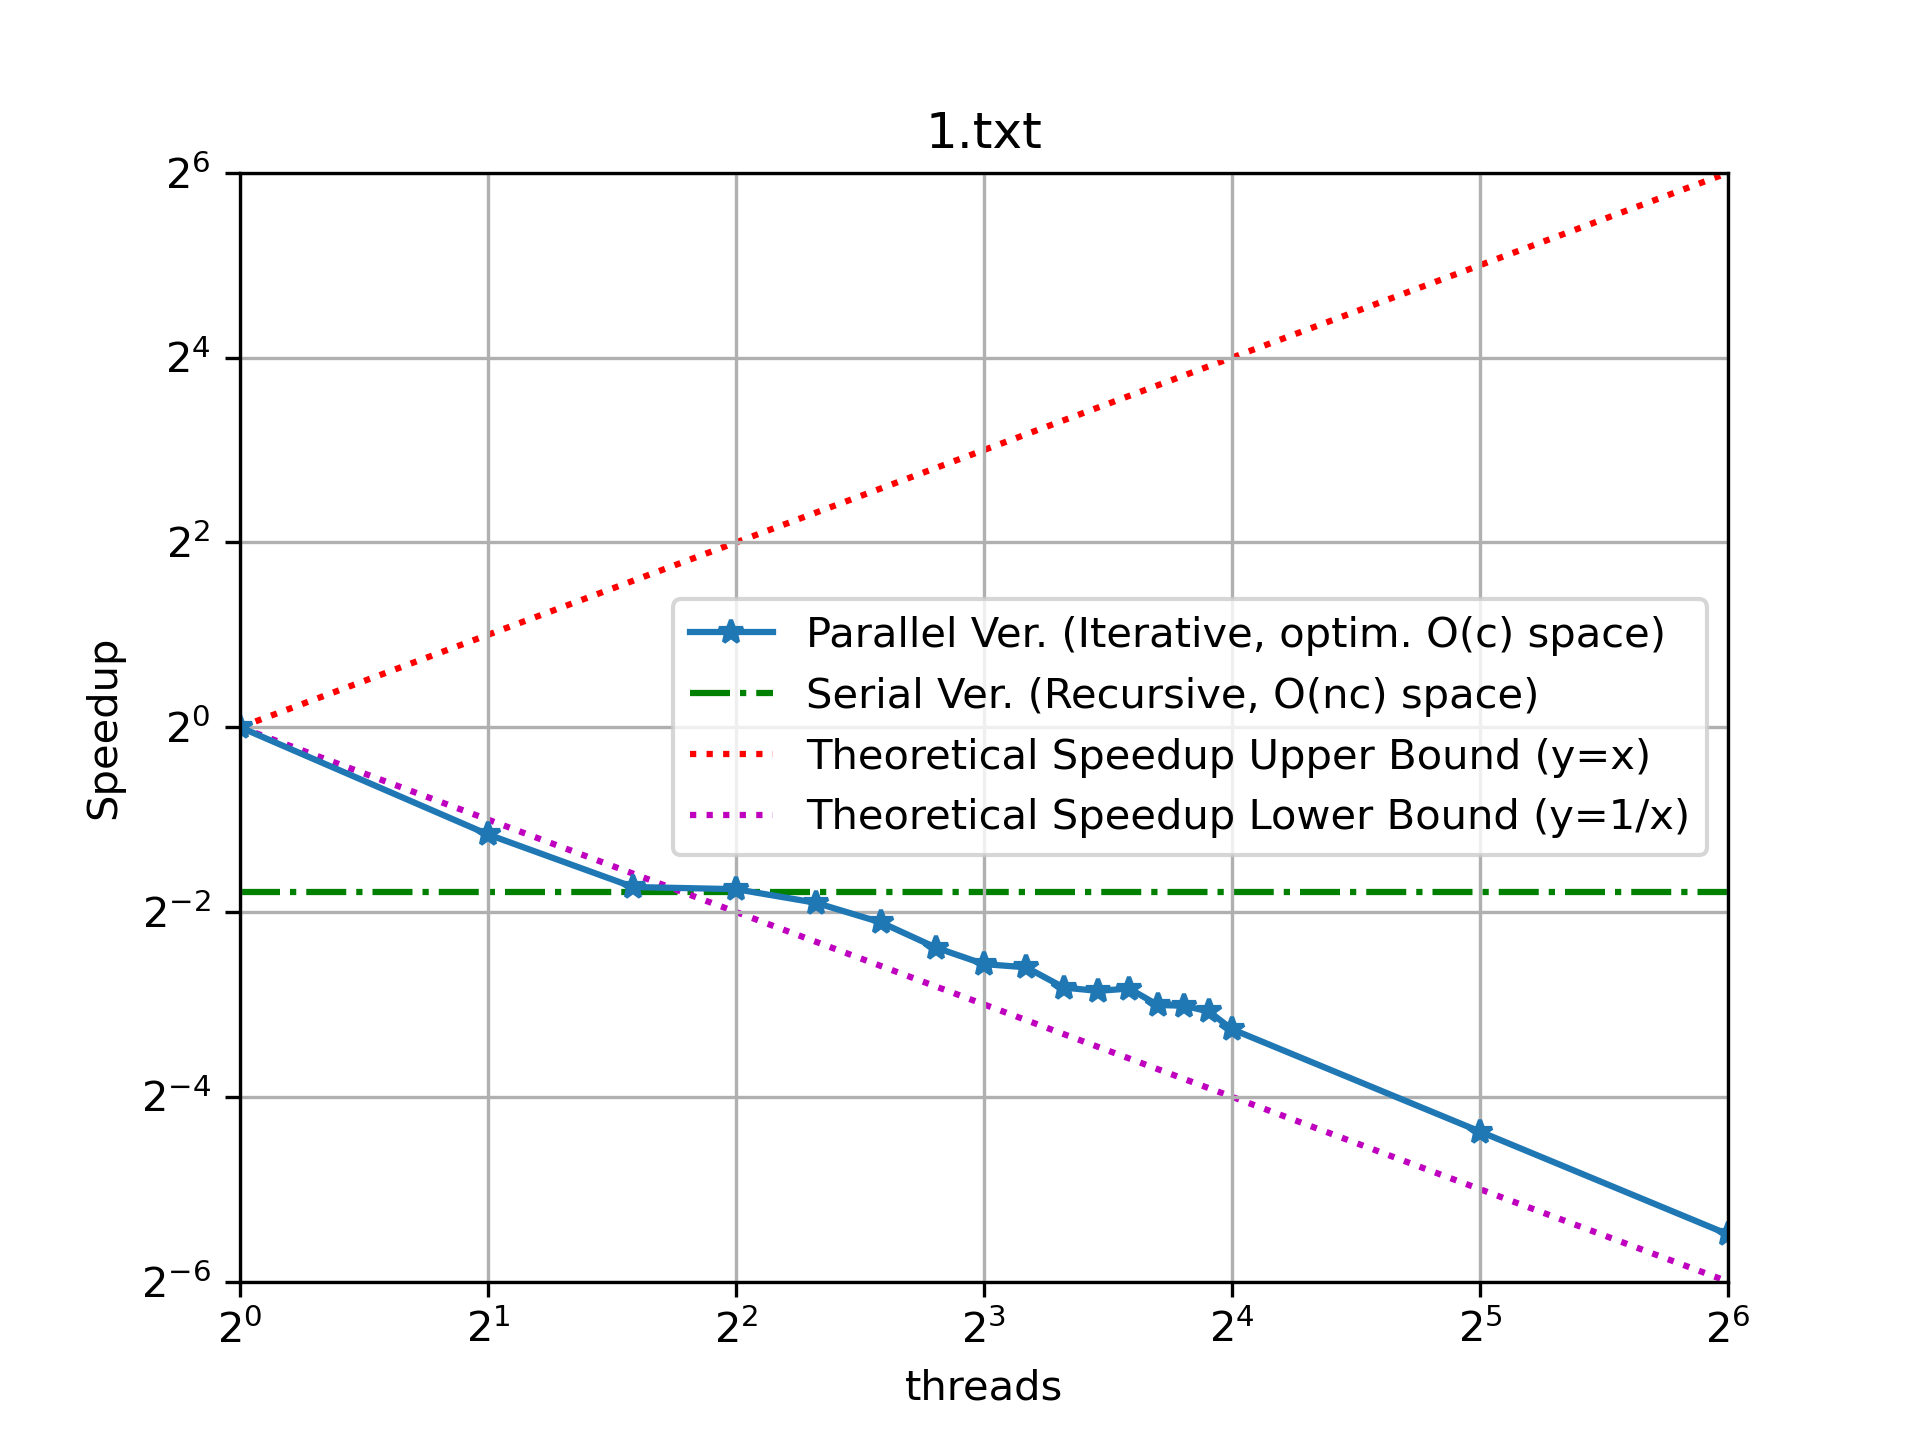
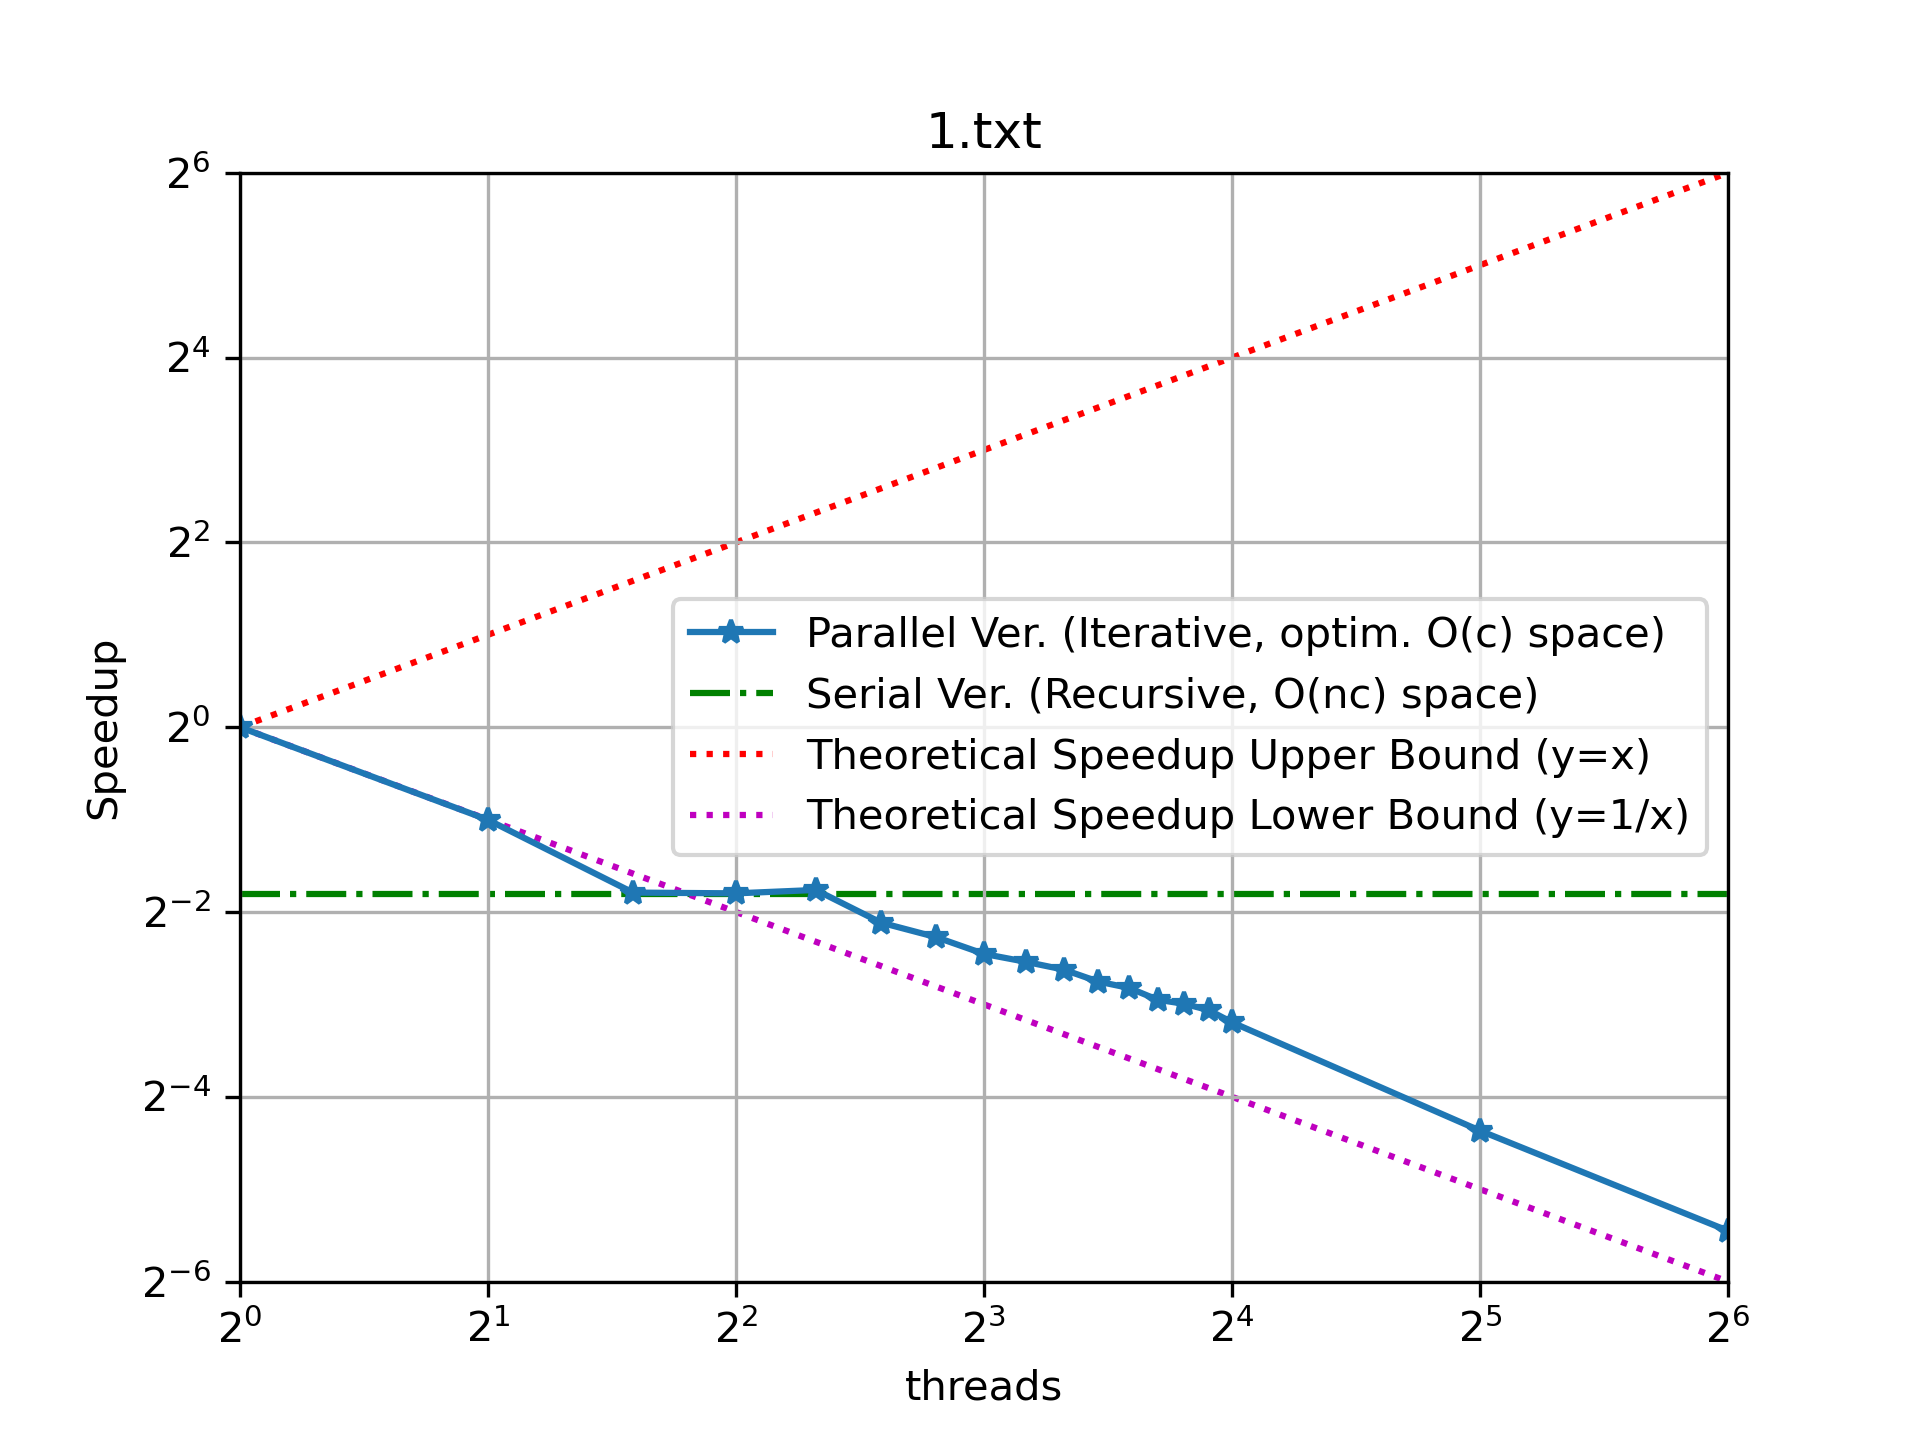
final update

diff --git a/src/knapsack.cpp b/src/knapsack.cpp
@@ -14,6 +14,8 @@
 #include <syncstream>
 #include <thread>
 #include <vector>
+#include <algorithm>
+#include <omp.h>
 
 using namespace std;
 
@@ -70,6 +72,38 @@ int knapsack(int n, int curr, int c)
 	return opt[curr][c];
 }
 
+int knapsack_mp_parallel(int n, int capacity)
+{
+	int *curr = opt[1];
+	int *prev = opt[0];
+
+	#pragma omp parallel for
+	for (int col = 0; col <= capacity; col++)
+		curr[col] = (col < weights[0]) ? 0 : values[0];
+
+	for (int row = 0; row < n; row++)
+	{
+		swap(curr, prev);
+		// iterate through in the capacity range
+		// update the current row
+		#pragma omp parallel for
+		for (int col = 0; col <= capacity; col++)
+		{
+			// no enough space to take
+			if (col < weights[row])
+				curr[col] = prev[col];
+
+			// give or take the item, and max
+			else
+				curr[col] = max(
+					prev[col],
+					prev[col - weights[row]] + values[row]);
+		}
+	}
+
+	return opt[n & 1][capacity];
+}
+
 int knapsack_parallel(int n, int capacity, int n_threads)
 {
 	barrier<> sync_point(n_threads);
@@ -93,7 +127,7 @@ int knapsack_parallel(int n, int capacity, int n_threads)
 		for (int row = 1; row < n; row++)
 		{
 			swap(curr, prev);
-			// iterate through in the capcity range
+			// iterate through in the capacity range
 			// update the current row
 			for (int col = l; col < r; col++)
 			{
@@ -171,7 +205,7 @@ int main(int argc, char *argv[])
 		n_threads = min(n_threads, c + 1);
 		highest = knapsack_parallel(n, c, n_threads);
 	}
-	else
+	else if (n_threads == 0)
 	{
 		// initialize the array for dynamic programming
 		opt = new int *[n];
@@ -185,6 +219,10 @@ int main(int argc, char *argv[])
 			}
 		}
 		highest = knapsack(n, 0, c);
+	} else {
+		opt = new int *[2]
+		{ new int[c + 1], new int[c + 1] };
+		highest = knapsack_mp_parallel(n, c);
 	}
 
 	auto end = high_resolution_clock::now();

diff --git a/driver.py b/driver.py
@@ -68,7 +68,7 @@ def plot(logger: str):
     MAX_THREAD = max(ARR_THREADS)
     
     data = pd.read_csv(logger, names=['input', 'threads', 'result', 'elapsed_time'])
-    data = data.groupby(['input', 'threads']).mean().reset_index()
+    data = data.groupby(['input', 'threads']).median().reset_index()
     with open('average.txt', 'w') as f:
         # data[data['threads'].isin({0, 1, 2, 4, 8, 16})].to_csv(f, index=False)
         data.to_csv(f, index=False)
@@ -97,7 +97,7 @@ if __name__ == '__main__':
     os.makedirs('res', exist_ok=True)
     os.makedirs('log', exist_ok=True)
     
-    # plot("log/20240223_200352.csv"); exit(0)
+    plot("log/20240223_200352.csv"); exit(0)
 
     log_path = gen_log_timestamp()
     for input_file in INPUTS:
